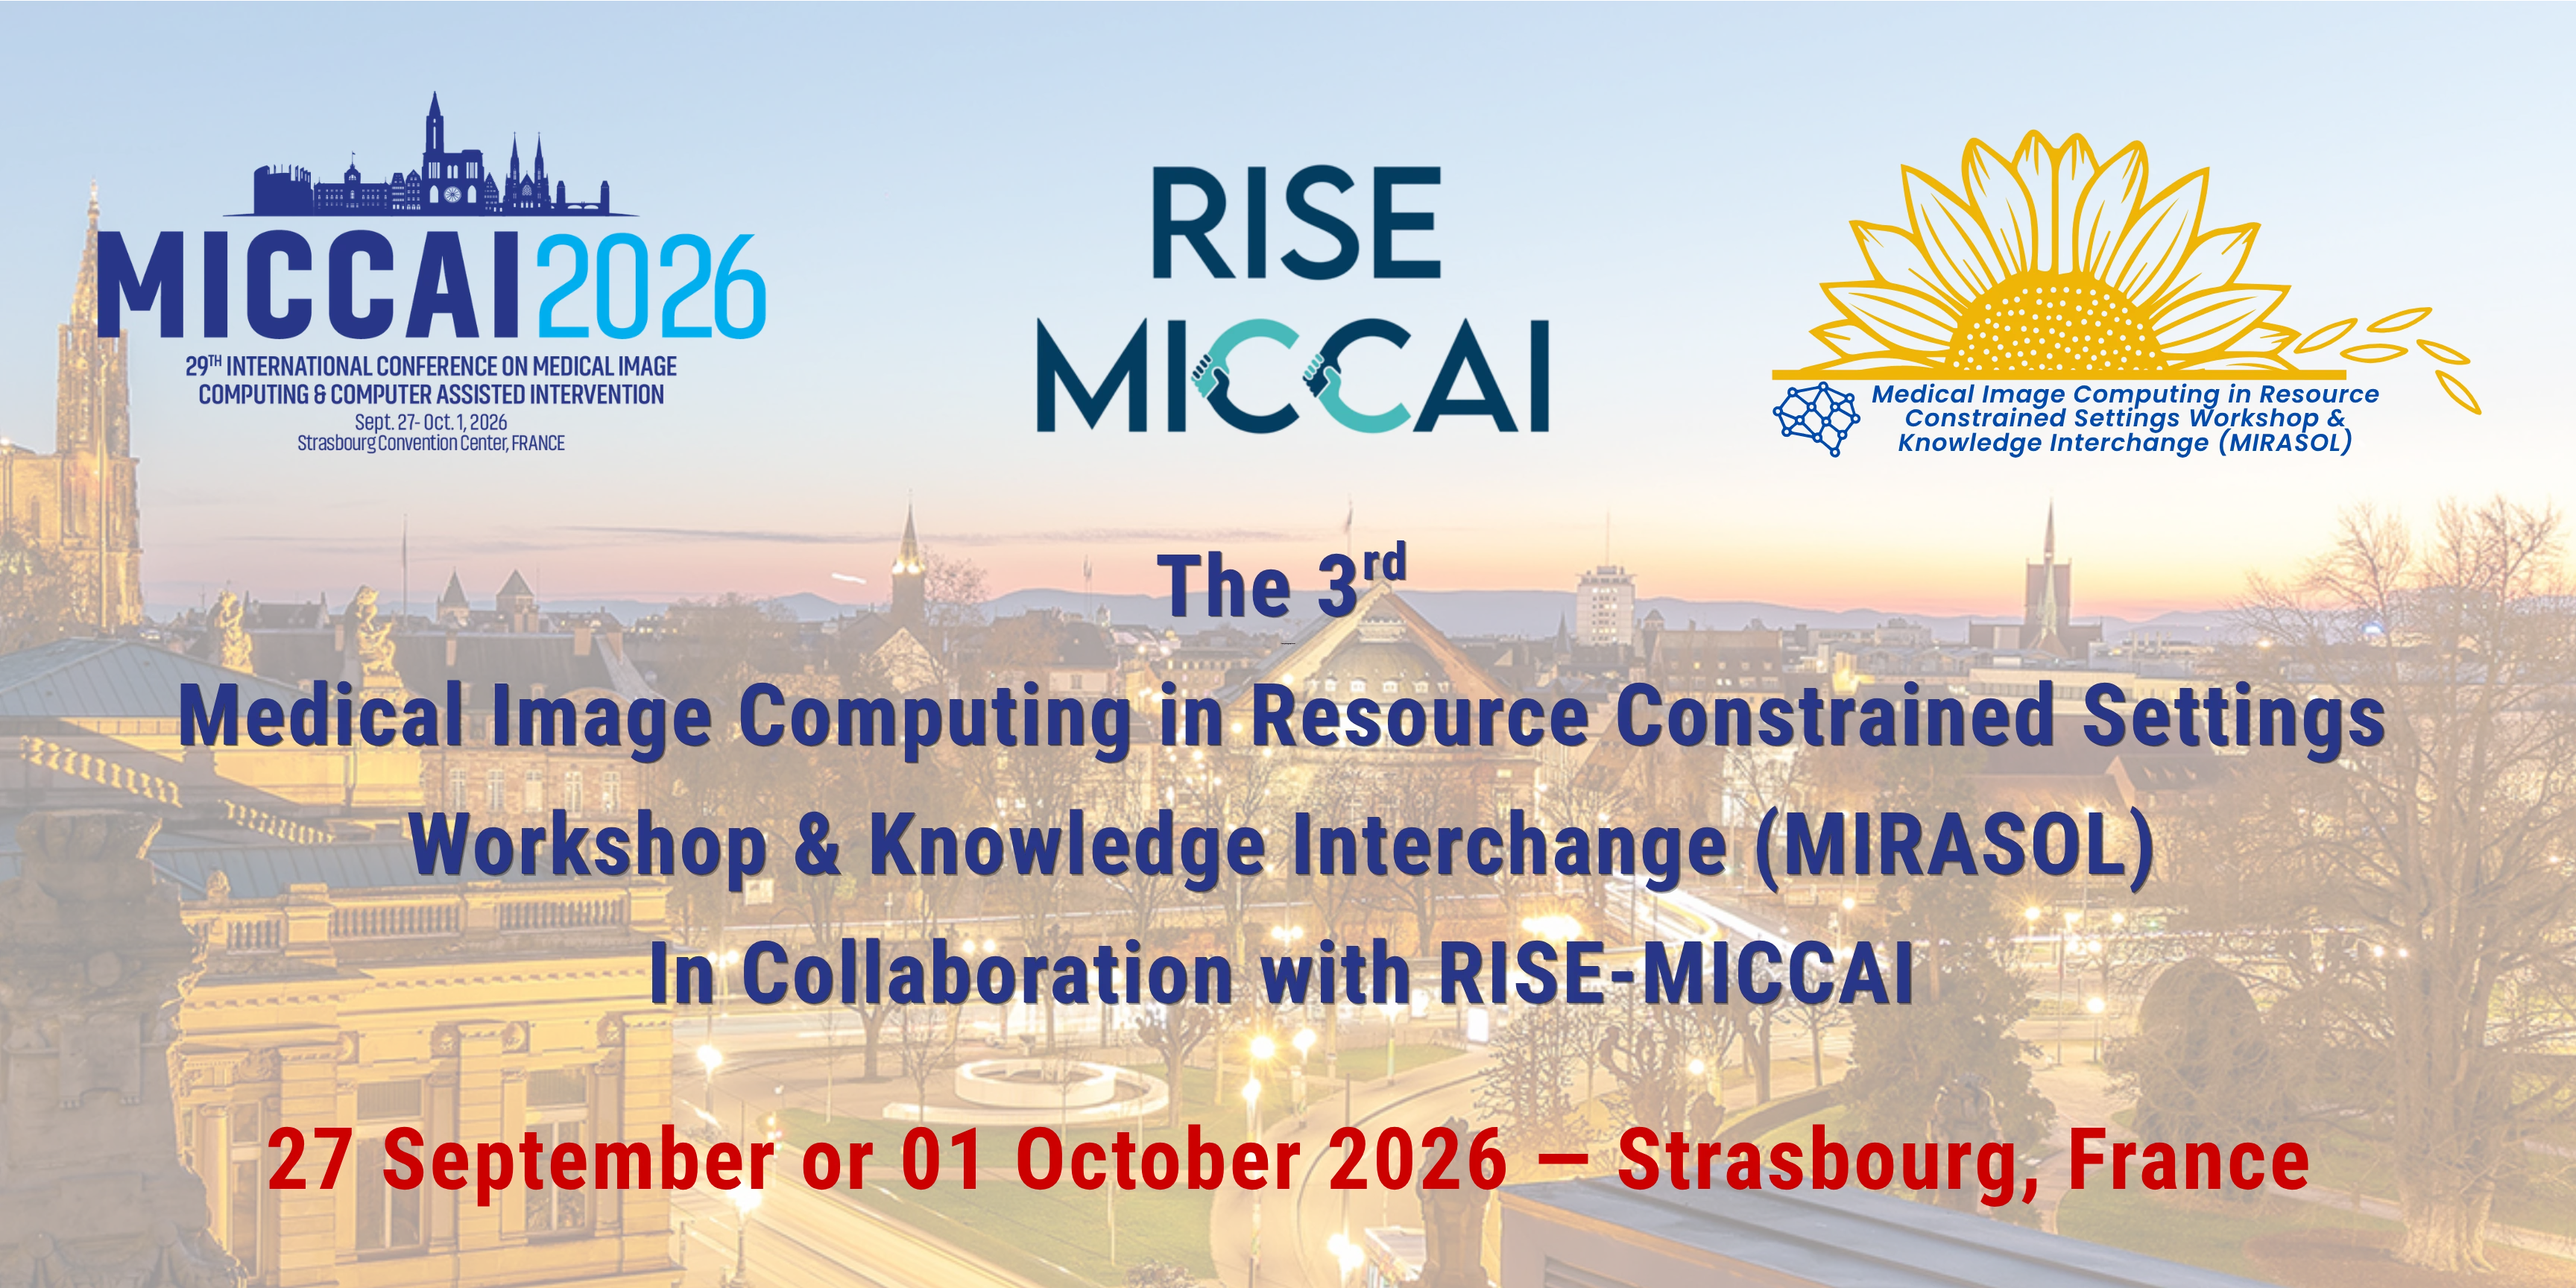
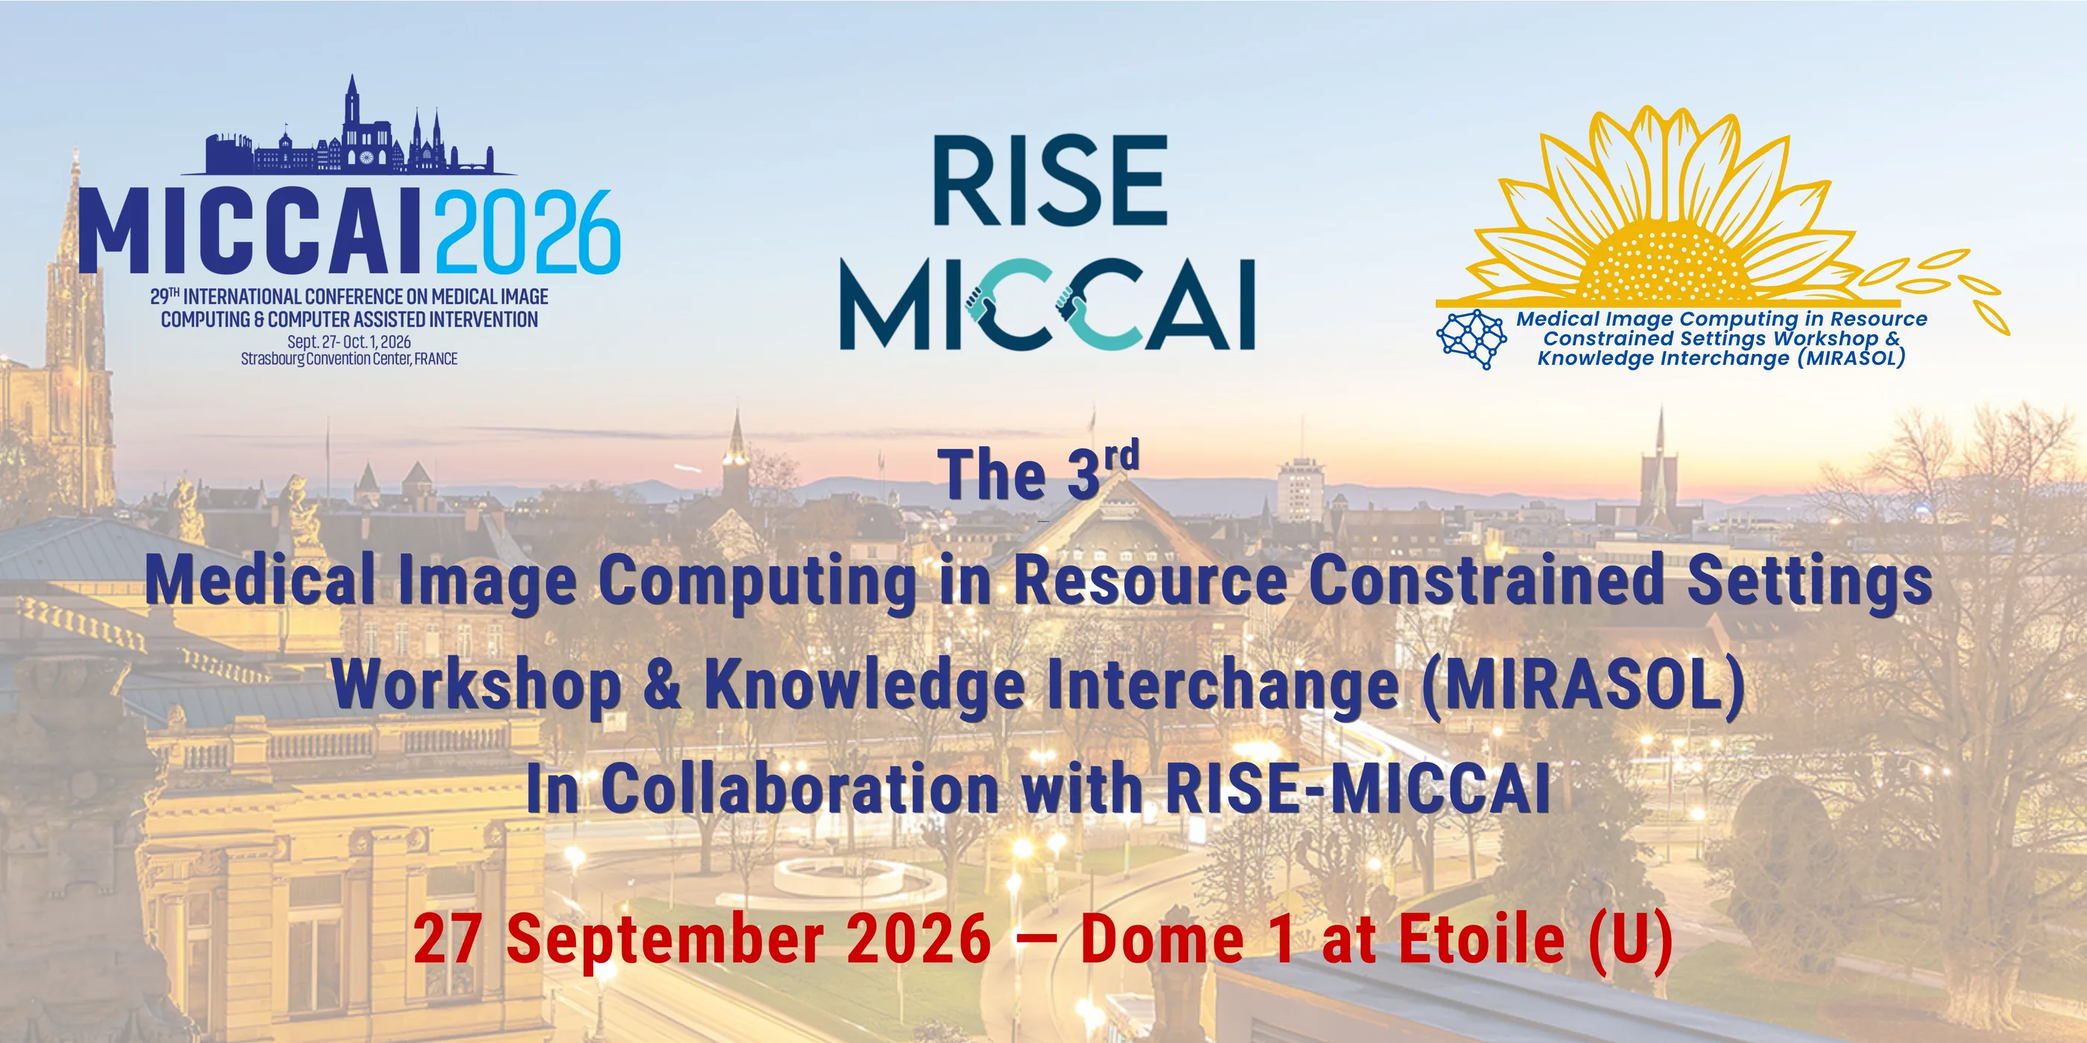
Update home links, timeline urgency, venue room, and mobile hero
- Link the two Past Workshops images on the home page to their Springer
  proceedings (matching the Call for Papers links)
- Highlight the next upcoming deadline (label + date) in red across every
  DatesTimeline to signal urgency
- Fix the CAMERA/AfricAI sponsor logo: make its white background
  transparent and cap its size so it fits the card like the other two
- Correct the venue room to "Dome 1 at Etoile (U)" in the footer and
  schedule
- Swap the small-screen hero for the updated MIRASOL banner (corrected
  date/room), optimised to a 315 KB webp

Changed region(s): [[0.0932, 0.86, 0.9011, 0.9521], [0.6836, 0.2764, 0.9011, 0.3686], [0.0932, 0.2764, 0.2486, 0.3686]]

diff --git a/src/pages/Home.jsx b/src/pages/Home.jsx
@@ -354,22 +354,34 @@ export default function Home() {
         <div className="content-block__container">
           <div className="rte" style={{ marginBottom: '1.25rem' }}><h2>Past Workshops</h2></div>
           <div className="focus-cards">
-            <div style={{ borderRadius: '0.75rem', overflow: 'hidden' }}>
+            <a
+              href="https://link.springer.com/book/9783032136534"
+              target="_blank"
+              rel="noopener"
+              title="MIRASOL 2025 proceedings — Daejeon, South Korea"
+              style={{ borderRadius: '0.75rem', overflow: 'hidden', display: 'block' }}
+            >
               <img
                 src={img("mirasol-2025.webp")}
                 alt="MIRASOL 2025 — Daejeon, South Korea"
                 style={{ width: '100%', height: '100%', objectFit: 'cover', display: 'block' }}
                 loading="lazy"
               />
-            </div>
-            <div style={{ borderRadius: '0.75rem', overflow: 'hidden' }}>
+            </a>
+            <a
+              href="https://doi.org/10.1007/978-3-031-79103-1"
+              target="_blank"
+              rel="noopener"
+              title="MIRASOL 2024 proceedings — Marrakesh, Morocco"
+              style={{ borderRadius: '0.75rem', overflow: 'hidden', display: 'block' }}
+            >
               <img
                 src={img("divider-sponsors.webp")}
                 alt="MIRASOL 2024 — Marrakesh, Morocco"
                 style={{ width: '100%', height: '100%', objectFit: 'cover', display: 'block' }}
                 loading="lazy"
               />
-            </div>
+            </a>
           </div>
         </div>
       </ScrollReveal>
@@ -407,7 +419,7 @@ export default function Home() {
               href="https://camera.minciencias.gov.co/"
               target="_blank"
               rel="noopener noreferrer"
-              className="logos-block__item logos-block__item--large"
+              className="logos-block__item logos-block__item--camera"
             >
               <img src={img("sponsor-2.webp")} alt="CAMERA" loading="lazy" />
             </a>

diff --git a/src/components/DatesTimeline.jsx b/src/components/DatesTimeline.jsx
@@ -1,13 +1,24 @@
 export default function DatesTimeline({ items }) {
   const now = new Date()
 
+  // The next upcoming deadline: first item with a future date. Highlighted to
+  // signal urgency.
+  const nextIndex = items.findIndex((item) => {
+    const deadline = item.date ? new Date(item.date) : null
+    return deadline && now <= deadline
+  })
+
   return (
     <div className="dates-timeline">
       {items.map((item, i) => {
         const deadline = item.date ? new Date(item.date) : null
         const isPast = deadline && now > deadline
+        const isNext = i === nextIndex
         return (
-          <div key={i} className={`dates-tl-item${isPast ? ' -past' : ''}`}>
+          <div
+            key={i}
+            className={`dates-tl-item${isPast ? ' -past' : ''}${isNext ? ' -next' : ''}`}
+          >
             <div className="dates-tl-dot" />
             <div className="dates-tl-card">
               <span className="dates-tl-label">{item.label}</span>

diff --git a/src/App.css b/src/App.css
@@ -802,6 +802,12 @@ a.logos-block__item::after,
   max-width: 300px;
 }
 
+/* CAMERA/AfricAI mark is near-square — cap height so it fits the card like the others */
+.logos-block__item--camera img {
+  max-height: 132px;
+  max-width: 165px;
+}
+
 /* ===== ACTION BUTTONS ===== */
 .action-element {
   display: inline-flex;
@@ -1381,6 +1387,22 @@ a.logos-block__item::after,
 .dates-tl-item.-past .dates-tl-value {
   text-decoration: line-through;
   color: var(--gray-400);
+}
+
+/* Next upcoming deadline — urgency highlight */
+.dates-tl-item.-next .dates-tl-dot {
+  background: #d92d20;
+  border-color: #fde0dd;
+  box-shadow: 0 0 0 3px rgba(217, 45, 32, 0.15);
+}
+
+.dates-tl-item.-next .dates-tl-card {
+  border-color: #f5c2bd;
+}
+
+.dates-tl-item.-next .dates-tl-label,
+.dates-tl-item.-next .dates-tl-value {
+  color: #d92d20;
 }
 
 .session-label.-keynote {

diff --git a/src/pages/Schedule.jsx b/src/pages/Schedule.jsx
@@ -107,7 +107,7 @@ export default function Schedule() {
         <div className="content-block__container">
           <div className="text-block"><div className="rte">
             <h2>Thematic Day Agenda</h2>
-            <p>All times are in Central European Summer Time (CEST, UTC+2). The workshop takes place at the <strong>Strasbourg Convention Center, France</strong>. Room: TBA.</p>
+            <p>All times are in Central European Summer Time (CEST, UTC+2). The workshop takes place at the <strong>Strasbourg Convention Center, France</strong>. Room: <strong>Dome 1 at Etoile (U)</strong>.</p>
           </div></div>
         </div>
       </div>

diff --git a/src/components/Footer.jsx b/src/components/Footer.jsx
@@ -9,8 +9,8 @@ export default function Footer() {
           <div className="footer__col">
             <h3>Location</h3>
             <p><strong>Strasbourg Convention Center, France</strong></p>
-            <p style={{ marginTop: '0.5rem', color: 'rgba(255,255,255,0.5)', fontSize: '0.85rem' }}>
-              Room details to be confirmed
+            <p style={{ marginTop: '0.5rem', color: 'rgba(255,255,255,0.7)', fontSize: '0.85rem' }}>
+              Dome 1 at Etoile (U)
             </p>
           </div>
           <div className="footer__col">
